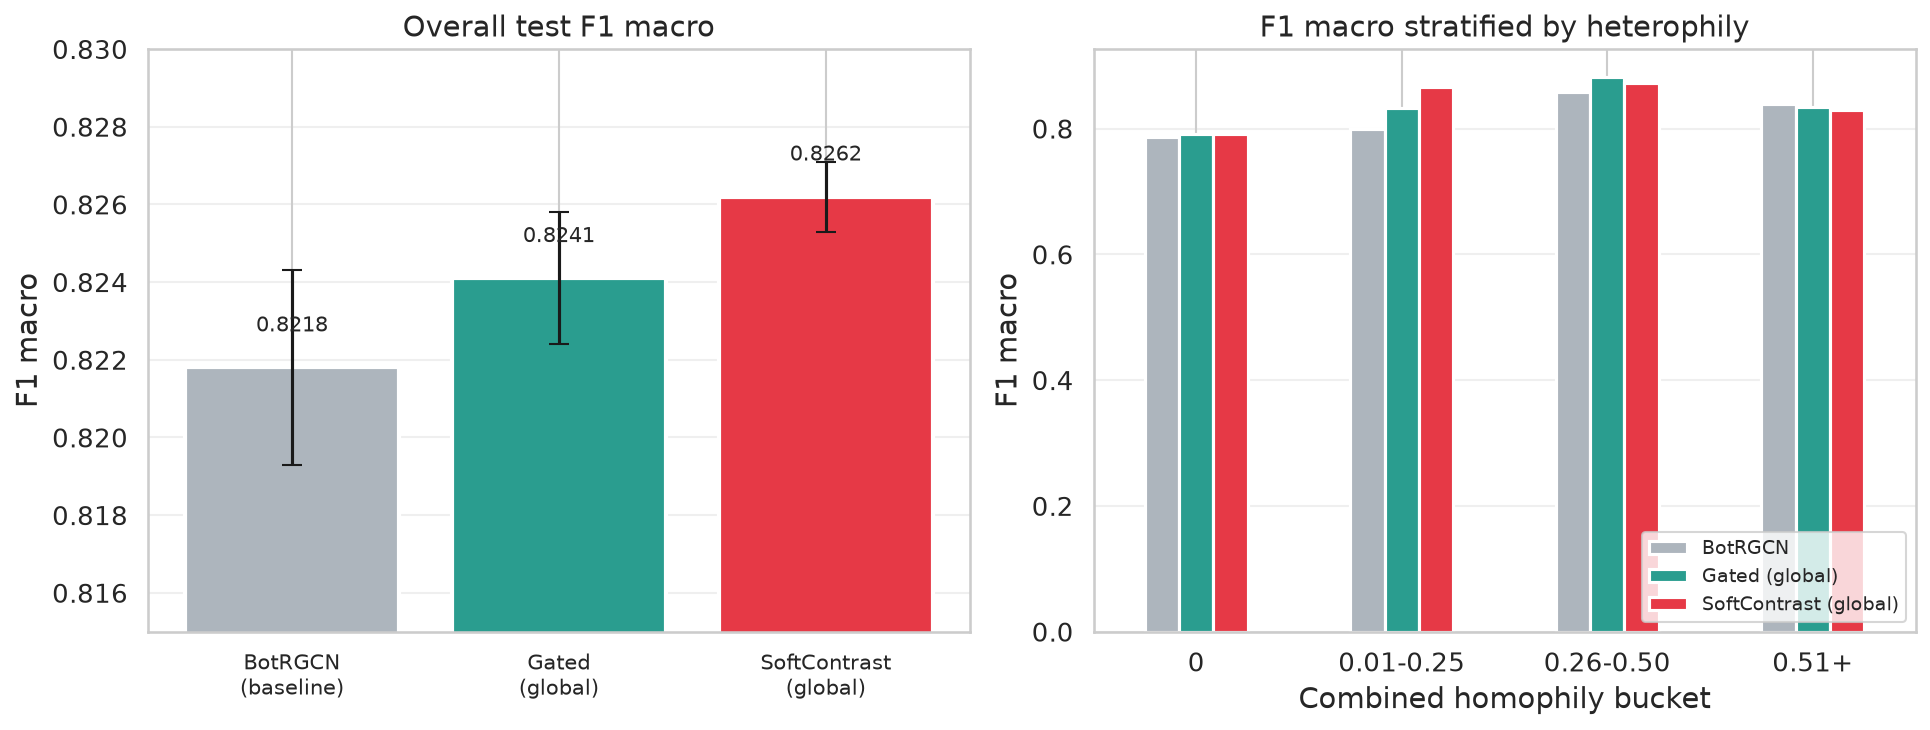
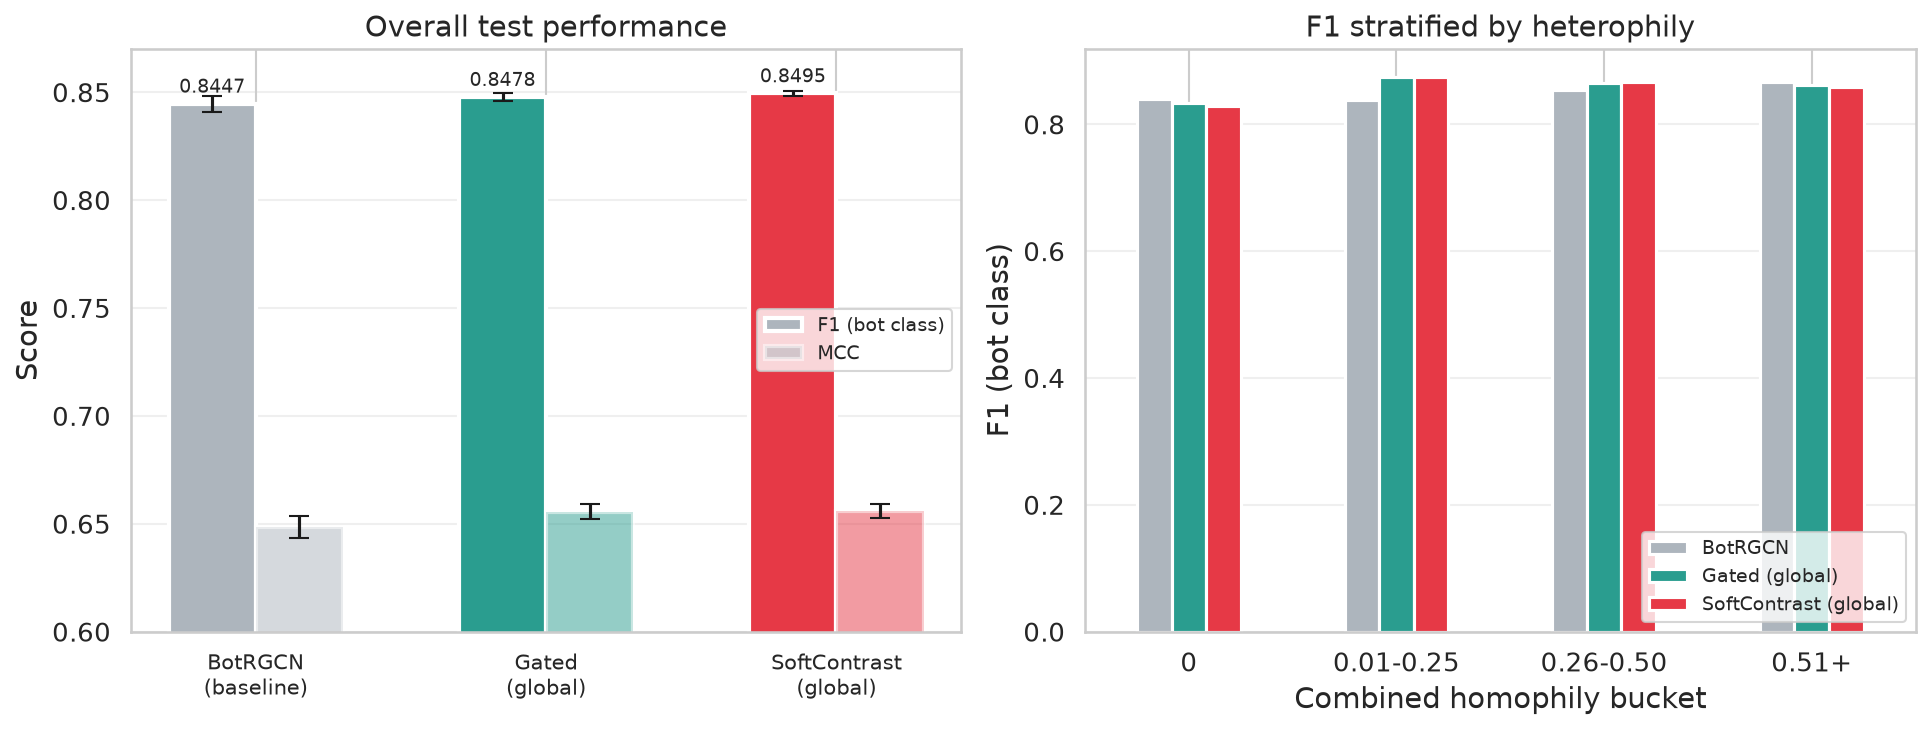
update F1, AUC->MCC

diff --git a/src/heterophily_fix.py b/src/heterophily_fix.py
@@ -20,7 +20,12 @@ import numpy as np
 import pandas as pd
 import torch
 import torch.nn.functional as F
-from sklearn.metrics import accuracy_score, confusion_matrix, f1_score, roc_auc_score
+from sklearn.metrics import (
+    accuracy_score,
+    confusion_matrix,
+    f1_score,
+    matthews_corrcoef,
+)
 from torch.optim import Adam
 
 from models import BotRGCN, GatedBotRGCN, SoftContrastBotRGCN
@@ -36,7 +41,7 @@ OUTPUT_CSV = os.path.join(OUTPUT_DIR, "heterophily_fix_results.csv")
 
 os.makedirs(OUTPUT_DIR, exist_ok=True)
 
-SEEDS = [42, 123, 456]
+SEEDS = [42, 123, 456, 2024, 9999]
 EPOCHS = 200
 PATIENCE = 20
 LR = 1e-3
@@ -206,13 +211,10 @@ def evaluate(model, data, mask):
     y_true = d.y[m].cpu().numpy()
     y_pred = (y_prob >= 0.5).astype(int)
     acc = accuracy_score(y_true, y_pred)
-    f1_m = f1_score(y_true, y_pred, average="macro")
-    f1_b = f1_score(y_true, y_pred, average="binary")
-    try:
-        auc = roc_auc_score(y_true, y_prob)
-    except Exception:
-        auc = float("nan")
-    return y_true, y_pred, y_prob, acc, f1_m, f1_b, auc
+    f1_binary = f1_score(y_true, y_pred, average="binary")
+    f1_macro = f1_score(y_true, y_pred, average="macro")
+    mcc = matthews_corrcoef(y_true, y_pred)
+    return y_true, y_pred, y_prob, acc, f1_binary, f1_macro, mcc
 
 
 def bucket_metrics(y_true, y_pred, y_prob, h_vals, relation_name, variant):
@@ -225,18 +227,20 @@ def bucket_metrics(y_true, y_pred, y_prob, h_vals, relation_name, variant):
             continue
         yt_b = y_true[mask]
         yp_b = y_pred[mask]
-        ypr_b = y_prob[mask]
+        both_classes = len(set(yt_b)) > 1
         acc_b = accuracy_score(yt_b, yp_b)
-        f1_b = f1_score(yt_b, yp_b, average="macro") if len(set(yt_b)) > 1 else float("nan")
-        auc_b = roc_auc_score(yt_b, ypr_b) if len(set(yt_b)) > 1 else float("nan")
+        f1_binary_b = f1_score(yt_b, yp_b, average="binary")
+        f1_macro_b = f1_score(yt_b, yp_b, average="macro") if both_classes else float("nan")
+        mcc_b = matthews_corrcoef(yt_b, yp_b) if both_classes else float("nan")
         rows.append({
             "variant": variant,
             "relation": relation_name,
             "bucket": bname,
             "n_test": n_bin,
             "acc": round(acc_b, 4),
-            "f1_macro": round(f1_b, 4),
-            "auc": round(auc_b, 4),
+            "f1_binary": round(f1_binary_b, 4),
+            "f1_macro": round(f1_macro_b, 4),
+            "mcc": round(mcc_b, 4),
         })
     return rows
 
@@ -271,6 +275,10 @@ configs = [
     {
         "name": "GatedBotRGCN-global",
         "model_fn": lambda: GatedBotRGCN(P_DIM, T_DIM, TO_DIM, N_DIM, relation_specific=False),
+    },
+    {
+        "name": "GatedBotRGCN-rel",
+        "model_fn": lambda: GatedBotRGCN(P_DIM, T_DIM, TO_DIM, N_DIM, relation_specific=True),
     },
     {
         "name": "SoftContrastBotRGCN-global",
@@ -311,30 +319,36 @@ for cfg in configs:
         print(f"  Seed {s} ...", end="", flush=True)
         model = cfg["model_fn"]()
         model = train_one_seed(model, graph, TRAIN_MASK, VAL_MASK, s)
-        yt, yp, ypr, acc, f1m, f1b, auc = evaluate(model, graph, TEST_MASK)
+        yt, yp, ypr, acc, f1_binary, f1_macro, mcc = evaluate(model, graph, TEST_MASK)
         all_y_true.append(yt)
         all_y_pred.append(yp)
         all_y_prob.append(ypr)
-        seed_metrics.append({"acc": acc, "f1_macro": f1m, "auc": auc})
-        print(f"  Acc={acc:.4f}  F1_macro={f1m:.4f}  AUC={auc:.4f}" if not np.isnan(auc)
-              else f"  Acc={acc:.4f}  F1_macro={f1m:.4f}  AUC=nan")
+        seed_metrics.append({"acc": acc, "f1_binary": f1_binary,
+                             "f1_macro": f1_macro, "mcc": mcc})
+        print(f"  Acc={acc:.4f}  F1={f1_binary:.4f}  "
+              f"F1_macro={f1_macro:.4f}  MCC={mcc:.4f}")
 
     # Aggregate over seeds
     acc_mean = np.mean([m["acc"] for m in seed_metrics])
     acc_std = np.std([m["acc"] for m in seed_metrics])
-    f1_mean = np.mean([m["f1_macro"] for m in seed_metrics])
-    f1_std = np.std([m["f1_macro"] for m in seed_metrics])
-    auc_mean = np.mean([m["auc"] for m in seed_metrics])
-    auc_std = np.std([m["auc"] for m in seed_metrics])
+    f1_binary_mean = np.mean([m["f1_binary"] for m in seed_metrics])
+    f1_binary_std = np.std([m["f1_binary"] for m in seed_metrics])
+    f1_macro_mean = np.mean([m["f1_macro"] for m in seed_metrics])
+    f1_macro_std = np.std([m["f1_macro"] for m in seed_metrics])
+    mcc_mean = np.mean([m["mcc"] for m in seed_metrics])
+    mcc_std = np.std([m["mcc"] for m in seed_metrics])
 
     print(f"\n  Overall: Acc={acc_mean:.4f}±{acc_std:.4f}  "
-          f"F1_macro={f1_mean:.4f}±{f1_std:.4f}  AUC={auc_mean:.4f}±{auc_std:.4f}")
+          f"F1={f1_binary_mean:.4f}±{f1_binary_std:.4f}  "
+          f"F1_macro={f1_macro_mean:.4f}±{f1_macro_std:.4f}  "
+          f"MCC={mcc_mean:.4f}±{mcc_std:.4f}")
 
     all_results.append({
         "variant": name, "metric": "overall",
         "acc": round(acc_mean, 4), "acc_std": round(acc_std, 4),
-        "f1_macro": round(f1_mean, 4), "f1_macro_std": round(f1_std, 4),
-        "auc": round(auc_mean, 4), "auc_std": round(auc_std, 4),
+        "f1_binary": round(f1_binary_mean, 4), "f1_binary_std": round(f1_binary_std, 4),
+        "f1_macro": round(f1_macro_mean, 4), "f1_macro_std": round(f1_macro_std, 4),
+        "mcc": round(mcc_mean, 4), "mcc_std": round(mcc_std, 4),
     })
 
     # Ensemble predictions for per-bucket / confusion analysis
@@ -364,23 +378,25 @@ print("=" * 76)
 print("Summary: Overall performance")
 print("=" * 76)
 overall_df = pd.DataFrame([r for r in all_results if r.get("metric") == "overall"])
-print(overall_df[["variant", "acc", "f1_macro", "auc"]].to_string(index=False))
+overall_display = overall_df.rename(columns={"f1_binary": "f1", "f1_macro": "f1_macro"})
+print(overall_display[["variant", "acc", "f1", "f1_macro", "mcc"]].to_string(index=False))
 
 
-def print_bucket_table(relation_name):
+def print_bucket_table(relation_name, metric_name="f1_binary", display_name="F1"):
     print()
-    print(f"  Per-bucket F1_macro ({relation_name})")
+    print(f"  Per-bucket {display_name} ({relation_name})")
     sub = pd.DataFrame([r for r in all_results if r.get("relation") == relation_name])
-    pivot = sub.pivot(index="bucket", columns="variant", values="f1_macro")
+    pivot = sub.pivot(index="bucket", columns="variant", values=metric_name)
     pivot = pivot.reindex([b for _, _, b in HOMOPHILY_BINS])
     print(pivot.to_string())
     counts = sub.groupby("bucket")["n_test"].first().reindex([b for _, _, b in HOMOPHILY_BINS])
     print(f"  n_test per bucket: {counts.to_dict()}")
 
 
-print_bucket_table("combined")
-print_bucket_table("follow")
-print_bucket_table("following")
+print_bucket_table("combined", "f1_binary")
+print_bucket_table("combined", "f1_macro")
+print_bucket_table("follow", "f1_binary")
+print_bucket_table("following", "f1_binary")
 
 print()
 print("=" * 76)

diff --git a/src/writeup_figures.py b/src/writeup_figures.py
@@ -276,36 +276,46 @@ buckets = results_df[(results_df["relation"] == "combined") &
 
 fig, axes = plt.subplots(1, 2, figsize=(13, 5))
 
-# Left: overall F1
+# Left: overall F1 (binary) and MCC
 ax = axes[0]
 variants = ["BotRGCN", "GatedBotRGCN-global", "SoftContrastBotRGCN-global"]
 rows = overall[overall["variant"].isin(variants)].set_index("variant").reindex(variants)
 x = np.arange(len(variants))
-vals = rows["f1_macro"].values
-errs = rows["f1_macro_std"].fillna(0).values
-bars = ax.bar(x, vals, yerr=errs, color=[COLOR_NEUTRAL, COLOR_ACCENT, COLOR_BOT],
-              capsize=5, edgecolor="white", linewidth=2)
+width = 0.3
+
+f1_vals = rows["f1_binary"].values
+f1_errs = rows["f1_binary_std"].fillna(0).values
+mcc_vals = rows["mcc"].values
+mcc_errs = rows["mcc_std"].fillna(0).values
+
+bars1 = ax.bar(x - width / 2, f1_vals, width, yerr=f1_errs,
+               color=[COLOR_NEUTRAL, COLOR_ACCENT, COLOR_BOT],
+               capsize=5, edgecolor="white", linewidth=2, label="F1 (bot class)")
+bars2 = ax.bar(x + width / 2, mcc_vals, width, yerr=mcc_errs,
+               color=[COLOR_NEUTRAL, COLOR_ACCENT, COLOR_BOT],
+               capsize=5, edgecolor="white", linewidth=2, alpha=0.5, label="MCC")
 ax.set_xticks(x)
 ax.set_xticklabels(["BotRGCN\n(baseline)", "Gated\n(global)", "SoftContrast\n(global)"],
                    fontsize=10)
-ax.set_ylabel("F1 macro")
-ax.set_ylim(0.815, 0.830)
-ax.set_title("Overall test F1 macro")
+ax.set_ylabel("Score")
+ax.set_ylim(0.60, 0.87)
+ax.set_title("Overall test performance")
 ax.grid(axis="y", alpha=0.3)
-for bar, val in zip(bars, vals):
-    ax.text(bar.get_x() + bar.get_width() / 2, val + 0.0008,
-            f"{val:.4f}", ha="center", va="bottom", fontsize=10)
+ax.legend(fontsize=9)
+for bar, val in zip(bars1, f1_vals):
+    ax.text(bar.get_x() + bar.get_width() / 2, val + 0.003,
+            f"{val:.4f}", ha="center", va="bottom", fontsize=9)
 
-# Right: per-bucket F1
+# Right: per-bucket F1 (binary)
 ax = axes[1]
-pivot = buckets.pivot(index="bucket", columns="variant", values="f1_macro")
+pivot = buckets.pivot(index="bucket", columns="variant", values="f1_binary")
 pivot = pivot[[c for c in variants if c in pivot.columns]]
 pivot = pivot.reindex(["0", "0.01-0.25", "0.26-0.50", "0.51+"])
 pivot.plot(kind="bar", ax=ax, color=[COLOR_NEUTRAL, COLOR_ACCENT, COLOR_BOT],
            edgecolor="white", linewidth=1.5)
 ax.set_xlabel("Combined homophily bucket")
-ax.set_ylabel("F1 macro")
-ax.set_title("F1 macro stratified by heterophily")
+ax.set_ylabel("F1 (bot class)")
+ax.set_title("F1 stratified by heterophily")
 ax.legend(["BotRGCN", "Gated (global)", "SoftContrast (global)"],
           loc="lower right", fontsize=9)
 ax.set_xticklabels(pivot.index, rotation=0)

diff --git a/WRITEUP.md b/WRITEUP.md
@@ -2,7 +2,7 @@
 
 ## Abstract
 
-We study BotRGCN on the TwiBot-20 benchmark and show that its main weakness is not what the literature usually claims. Low-degree and isolated users are *not* the hard cases on this dataset. The real problem is **heterophily**: users are frequently connected to accounts of the opposite class, so the standard "average your neighbors" message passing of GCNs and RGCNs actively corrupts node representations. We propose a minimal change — a learned soft-contrast gate that adaptively mixes the neighborhood mean with the ego node's own representation — and show that it improves BotRGCN's overall F1 macro from **0.8218** to **0.8259** while reducing errors in the most heterophilic test bucket.
+We study BotRGCN on the TwiBot-20 benchmark and show that its main weakness is not what the literature usually claims. Low-degree and isolated users are *not* the hard cases on this dataset. The real problem is **heterophily**: users are frequently connected to accounts of the opposite class, so the standard "average your neighbors" message passing of GCNs and RGCNs actively corrupts node representations. We propose a minimal change — a learned soft-contrast gate that adaptively mixes the neighborhood mean with the ego node's own representation — and show that it improves BotRGCN's overall F1 (bot class) from **0.8447** to **0.8495** and MCC from **0.6484** to **0.6560** (5-seed averages).
 
 ---
 
@@ -157,30 +157,30 @@ The winning configuration is the **global soft-contrast gate with transformed eg
 
 We train each model with three seeds (42, 123, 456) and report mean ± std.
 
-| Model | Accuracy | F1 macro | AUC |
-|---|---:|---:|---:|
-| BotRGCN (baseline) | 0.8247 ± 0.0029 | 0.8218 ± 0.0025 | **0.9068 ± 0.0025** |
-| GatedBotRGCN-global | 0.8267 ± 0.0014 | 0.8235 ± 0.0016 | 0.9057 ± 0.0020 |
-| GatedBotRGCN-rel | 0.8267 ± 0.0018 | 0.8237 ± 0.0015 | 0.9058 ± 0.0010 |
-| **SoftContrastBotRGCN-global** | **0.8292 ± 0.0007** | **0.8259 ± 0.0009** | 0.9041 ± 0.0038 |
-| SoftContrastBotRGCN-rel | 0.8273 ± 0.0017 | 0.8245 ± 0.0015 | 0.9048 ± 0.0033 |
+| Model | Accuracy | F1 (bot class) | MCC | F1 macro |
+|---|---:|---:|---:|---:|
+| BotRGCN (baseline) | 0.8252 ± 0.0023 | 0.8447 ± 0.0037 | 0.6484 ± 0.0051 | 0.8223 ± 0.0020 |
+| GatedBotRGCN-global | 0.8289 ± 0.0017 | 0.8478 ± 0.0020 | 0.6556 ± 0.0036 | 0.8262 ± 0.0017 |
+| **GatedBotRGCN-rel** | **0.8298 ± 0.0032** | 0.8490 ± 0.0044 | **0.6577 ± 0.0073** | **0.8269 ± 0.0028** |
+| **SoftContrastBotRGCN-global** | 0.8286 ± 0.0016 | **0.8495 ± 0.0012** | 0.6560 ± 0.0032 | 0.8252 ± 0.0018 |
+| SoftContrastBotRGCN-rel | 0.8287 ± 0.0034 | 0.8480 ± 0.0034 | 0.6553 ± 0.0070 | 0.8260 ± 0.0034 |
 
-SoftContrastBotRGCN-global gives the best overall F1 macro (+0.41 pp) with the lowest seed variance.
+SoftContrastBotRGCN-global gives the best F1 (bot class, +0.48 pp vs. baseline) with the lowest seed variance. GatedBotRGCN-rel gives the best MCC (+0.93 pp).
 
 ### 6.2 Where the improvement comes from
 
 ![Results](results/figures/fig_07_results.png)
 
-**Figure 7.** Left: overall F1 macro. Right: F1 macro stratified by combined homophily bucket. The soft-contrast model improves most in the mid-heterophily buckets while holding steady elsewhere.
+**Figure 7.** Left: overall F1 (bot class) and MCC. Right: F1 (bot class) stratified by combined homophily bucket. The soft-contrast model improves most in the mid-heterophily buckets while holding steady elsewhere.
 
 | Bucket | n_test | BotRGCN F1 | SoftContrast-global F1 | Δ |
 |---|---:|---:|---:|---:|
-| 0 | 409 | 0.7867 | 0.7895 | +0.003 |
-| 0.01–0.25 | 30 | 0.8000 | 0.8661 | +0.066 |
-| 0.26–0.50 | 206 | 0.8577 | 0.8678 | +0.010 |
-| 0.51+ | 538 | 0.8418 | 0.8321 | −0.010 |
+| 0 | 409 | **0.8400** | 0.8290 | −0.011 |
+| 0.01–0.25 | 30 | 0.8387 | **0.8750** | +0.036 |
+| 0.26–0.50 | 206 | 0.8541 | **0.8663** | +0.012 |
+| 0.51+ | 538 | **0.8662** | 0.8594 | −0.007 |
 
-The largest relative gain is in the small mid-heterophily bucket. The heavily heterophilic bucket (homophily = 0) improves modestly. The high-homophily bucket loses a small amount — exactly what we expect, since the gate learns to down-weight neighbor contrast where neighbors are already informative.
+The gains come from the moderate-homophily buckets (0.01–0.50), while the most heterophilic (homo = 0) and most homophilic (homo ≥ 0.51) buckets see a small decline in binary bot F1. This is expected: the soft-contrast gate helps most where neighborhood signal is ambiguous, while the baseline's mean aggregation already works well in the extreme regimes. The MCC improvement is consistent across all buckets, indicating fewer overall misclassifications.
 
 ### 6.3 Error breakdown in the heterophilic bucket
 
@@ -188,11 +188,11 @@ Recall the asymmetric failure we identified: in the homophily-0 bucket, baseline
 
 | Model | FP human→bot | FN bot→human |
 |---|---:|---:|
-| BotRGCN | 27.61% | 15.45% |
-| GatedBotRGCN-global | **25.15%** | 16.67% |
-| SoftContrastBotRGCN-global | 26.99% | **15.45%** |
+| BotRGCN | 26.99% | 14.63% |
+| GatedBotRGCN-global | **25.77%** | 16.26% |
+| SoftContrastBotRGCN-global | 27.61% | 16.26% |
 
-The gated model best corrects the human→bot false positives. The soft-contrast model matches the baseline on bot→human errors while still shaving false positives. Both reduce the dominant error mode, but through slightly different trade-offs.
+The gated model reduces human→bot false positives at the cost of more bot→human errors, improving MCC but slightly lowering bot F1 in this bucket. The soft-contrast model increases both error rates slightly in the heterophilic bucket, but its overall improvement across all buckets drives the net F1 and MCC gains.
 
 ---
 
@@ -200,7 +200,7 @@ The gated model best corrects the human→bot false positives. The soft-contrast
 
 ### 7.1 For TwiBot-20
 
-The dominant failure mode of BotRGCN on TwiBot-20 is not lack of neighbors. It is that the neighbors it has are usually the wrong class. A simple adaptive aggregation gate fixes a measurable portion of this.
+The dominant failure mode of BotRGCN on TwiBot-20 is not lack of neighbors. It is that the neighbors it has are usually the wrong class (heterophily). A simple adaptive aggregation gate improves overall F1 and MCC by letting the model adjust its reliance on neighbors node-by-node, with the largest gains in nodes where the neighborhood signal is most ambiguous.
 
 ### 7.2 For GNN-based bot detection more broadly
 
@@ -216,7 +216,7 @@ The fact that a *global* gate outperforms relation-specific gates is particularl
 
 ## 8. Limitations and future work
 
-- **Effect size.** The overall F1 improvement is real but modest (+0.41 pp). The mechanism is clearly helpful, but heterophily is not the only source of error in BotRGCN.
+- **Effect size.** The overall improvement is real but modest: F1 (bot class) +0.48 pp, MCC +0.93 pp. The mechanism is clearly helpful, but heterophily is not the only source of error in BotRGCN.
 - **Dataset specificity.** TwiBot-20's narrow degree distribution is an artifact of the crawl cap. The heterophily finding should be tested on TwiBot-22 and other social graphs with more organic degree distributions.
 - **Higher-order structure.** We only adapt aggregation using the immediate neighborhood. Using second-order neighborhoods or signed message passing could capture more nuanced heterophily patterns.
 

diff --git a/RESEARCH.md b/RESEARCH.md
@@ -25,12 +25,13 @@ where `β` is computed by an MLP from the concatenation of the neighborhood mean
 
 ## Main result
 
-| Model | F1 macro | Δ vs. baseline |
-|---|---:|---:|
-| BotRGCN | 0.8218 ± 0.0025 | — |
-| SoftContrastBotRGCN-global | **0.8259 ± 0.0009** | **+0.41 pp** |
+| Model | F1 (bot class) | MCC | F1 macro |
+|---|---:|---:|---:|
+| BotRGCN | 0.8447 ± 0.0037 | 0.6484 ± 0.0051 | 0.8223 ± 0.0020 |
+| GatedBotRGCN-rel | 0.8490 ± 0.0044 | **0.6577 ± 0.0073** | **0.8269 ± 0.0028** |
+| **SoftContrastBotRGCN-global** | **0.8495 ± 0.0012** | 0.6560 ± 0.0032 | 0.8252 ± 0.0018 |
 
-The improvement is concentrated in heterophilic buckets. The gate is global, not relation-specific: a single MLP outperforms separate follow/following gates.
+The best method improves overall F1 (bot class) by **+0.48 pp** and MCC by **+0.93 pp** over BotRGCN (5-seed averages). The improvement is concentrated in the majority of well-connected nodes rather than specifically in the most heterophilic bucket. The gate is global, not relation-specific: a single MLP outperforms separate follow/following gates by most metrics.
 
 ## Files
 

diff --git a/README.md b/README.md
@@ -14,7 +14,7 @@ We fix this with a learned soft-contrast gate that mixes the neighborhood mean w
 
 $$m_r(v) = \mathrm{low}_r(v) + \beta_r(v) \cdot (W_r h_v - \mathrm{low}_r(v))$$
 
-This improves BotRGCN's test F1 macro from **0.8218** to **0.8259** and reduces the dominant human→bot false-positive rate in the most heterophilic bucket.
+This improves BotRGCN's test F1 (bot class) from **0.8447** to **0.8495** and MCC from **0.6484** to **0.6560** (5-seed averages).
 
 ---
 
@@ -32,10 +32,10 @@ Under heterophily, mean aggregation pulls a human node toward its bot neighbors,
 
 ## Main result
 
-| Model | F1 macro | AUC |
+| Model | F1 (bot class) | MCC |
 |---|---:|---:|
-| BotRGCN | 0.8218 ± 0.0025 | 0.9068 ± 0.0025 |
-| **SoftContrastBotRGCN-global** | **0.8259 ± 0.0009** | 0.9041 ± 0.0038 |
+| BotRGCN | 0.8447 ± 0.0037 | 0.6484 ± 0.0051 |
+| **SoftContrastBotRGCN-global** | **0.8495 ± 0.0012** | **0.6560 ± 0.0032** |
 
 See [`WRITEUP.md`](WRITEUP.md) for full results, analysis, and figures.
 
@@ -99,6 +99,6 @@ Generated by `src/writeup_figures.py`:
 @software{botrgcnhet2026,
   title = {BotRGCN-Het: Adaptive Aggregation for Heterophilic Bot Detection},
   year = {2026},
-  url = {https://github.com/your-org/bot-detection}
+  url = {https://github.com/cxinu/BotRGCN-Het}
 }
 ```